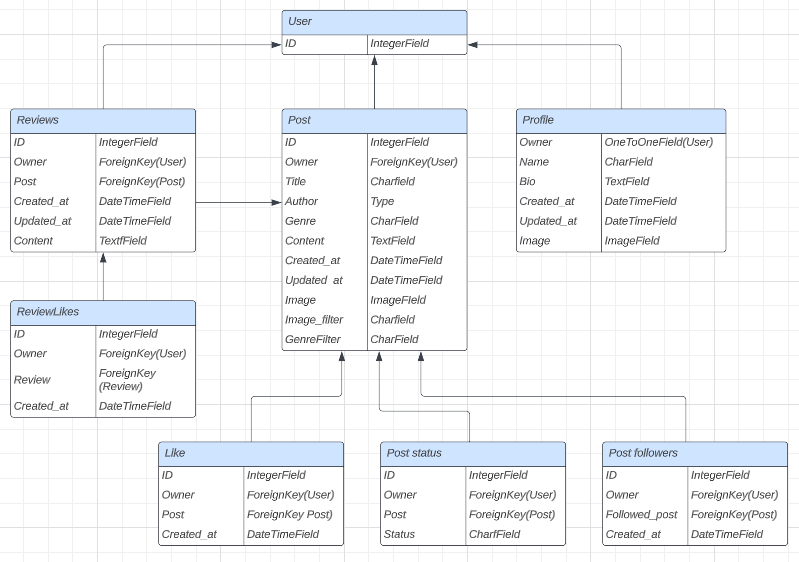
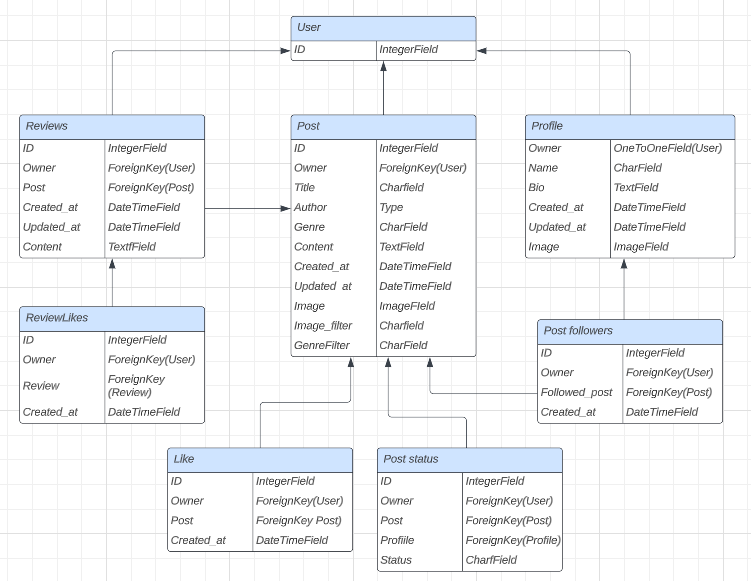
edit model and serializer sections in readme file, to reflect changes in the code

Changed region(s): [[0.0, 0.0, 1.0, 0.9982]]

diff --git a/README.md b/README.md
@@ -74,6 +74,7 @@ The PostStatus model represents the status of a post for a specific user. It all
 Fields:
 - owner: This field is a foreign key referencing the User model from Django's built-in authentication system. It establishes a relationship between the PostStatus model and the user who has a status for a post. When a user is deleted, all associated post statuses will be removed as well.
 - post: This field is a foreign key referencing the Post model from the 'posts' application. It represents the post for which the status is being recorded. When a post is deleted, all associated post statuses will be removed as well.
+- profile: This field is a foreign key referencing the Profile model from the 'profiles' application. It represents the profile associated with the user who has a status for a post. When a profile is deleted, all associated post statuses will be removed as well. The default value is set to 0.
 - status: This field is a CharField with a maximum length of 15 characters. It allows users to choose a status for the post from predefined choices. The available choices are 'Read' and 'Will read'. Users can indicate whether they have read the book the post is about or plan to read it in the future.
 
 Methods:
@@ -140,8 +141,17 @@ The ProfileSerializer is responsible for serializing and deserializing data rela
 The serializer includes the following fields:
 - owner: A read-only field that represents the username of the profile owner.
 - is_owner: A custom field that determines whether the authenticated user is the owner of the profile.
+- posts_count: A read-only field that represents the count of posts associated with the profile.
+- reviews_count: A read-only field that represents the count of reviews associated with the profile.
+- read_posts_count: A custom field that retrieves the count of posts marked as "Read" for the profile.
+- will_read_posts_count: A custom field that retrieves the count of posts marked as "Will read" for the profile.
 
-The serializer's Meta class defines the model and fields that should be included in the serialized representation of the Profile model. The specified fields include: id, owner, created_at, updated_at, name, bio, image, and is_owner.
+Methods
+- get_is_owner(obj): This method is a SerializerMethodField that checks whether the authenticated user is the owner of the profile (obj).
+- get_read_posts_count(obj): This method is a SerializerMethodField that retrieves the count of posts marked as "Read" for the profile (obj).
+- get_will_read_posts_count(obj): This method is a SerializerMethodField that retrieves the count of posts marked as "Will read" for the profile (obj).
+
+The serializer's Meta class defines the model and fields that should be included in the serialized representation of the Profile model. The specified fields include: id, owner, created_at, updated_at, name, bio, image, is_owner, posts_count, reviews_count, read_posts_count, and will_read_posts_count.
 
 ## Post Serializer
 The PostSerializer is responsible for serializing and deserializing data related to the Post model. It defines how the Post instances are represented in JSON format.
@@ -151,10 +161,21 @@ The serializer includes the following fields:
 - is_owner: A custom field that determines whether the authenticated user is the owner of the post.
 - profile_id: A read-only field that represents the ID of the owner's profile.
 - profile_image: A read-only field that represents the URL of the owner's profile image.
+- following_id: A custom field that retrieves the ID of the post follower, if the authenticated user follows the post.
+- like_id: A custom field that retrieves the ID of the like associated with the post, if the authenticated user has liked the post.
+- likes_count: A read-only field that represents the count of likes associated with the post.
+- review_count: A read-only field that represents the count of reviews associated with the post.
+- followed_count: A read-only field that represents the count of followers for the post.
+- post_status: A custom field that retrieves the status of the post for the authenticated user.
 
-The serializer also includes a method called validate_image to validate the size and dimensions of the image field. It ensures that the image size is not larger than 2MB and that the height and width do not exceed 4096 pixels.
+Methods
+- validate_image(value): This method validates the size and dimensions of the image field. It checks if the image size is larger than 2MB and if the height and width exceed 4096 pixels.
+- get_is_owner(obj): This method is a SerializerMethodField that checks whether the authenticated user is the owner of the post (obj).
+- get_following_id(obj): This method is a SerializerMethodField that retrieves the ID of the post follower if the authenticated user follows the post.
+- get_like_id(obj): This method is a SerializerMethodField that retrieves the ID of the like associated with the post if the authenticated user has liked the post.
+- get_post_status(obj): This method is a SerializerMethodField that retrieves the status of the post for the authenticated user.
 
-The serializer's Meta class defines the model and fields that should be included in the serialized representation of the Post model. The specified fields include: id, owner, profile_id, profile_image, created_at, updated_at, title, author, content, image, is_owner, genre_filter, and image_filter.
+The serializer's Meta class defines the model and fields that should be included in the serialized representation of the Post model. The specified fields include: id, owner, profile_id, profile_image, created_at, updated_at, title, author, content, image, is_owner, genre_filter, image_filter, following_id, like_id, likes_count, review_count, followed_count, and post_status.
 
 ## PostFollower Serializer:
 The PostFollowerSerializer is responsible for serializing and deserializing data related to the PostFollower model. It defines how PostFollower instances are represented in JSON format.
@@ -205,8 +226,15 @@ The serializer includes the following fields:
 - is_owner: A custom field that determines whether the authenticated user is the owner of the review.
 - profile_id: A read-only field that represents the ID of the owner's profile.
 - profile_image: A read-only field that represents the URL of the owner's profile image.
-
+- reviewlike_id: A custom field that retrieves the ID of the like associated with the review if the authenticated user has liked the review.
+- reviewlikes_count: A read-only field that represents the count of likes associated with the review.
 The serializer's Meta class defines the model and fields that should be included in the serialized representation of the Review model. The specified fields include: id, owner, post, profile_id, profile_image, created_at, updated_at, content, and is_owner.
+
+Methods
+- get_is_owner(obj): This method is a SerializerMethodField that checks whether the authenticated user is the owner of the review (obj).
+- get_reviewlike_id(obj): This method is a SerializerMethodField that retrieves the ID of the like associated with the review if the authenticated user has liked the review.
+
+The serializer's Meta class defines the model and fields that should be included in the serialized representation of the Review model. The specified fields include: id, owner, post, profile_id, profile_image, created_at, updated_at, content, is_owner, reviewlike_id, and reviewlikes_count.
 
 ### Review Detail Serializer
 The ReviewDetailSerializer is a subclass of ReviewSerializer and is used specifically for the detail view of a review. It adds an additional field:
